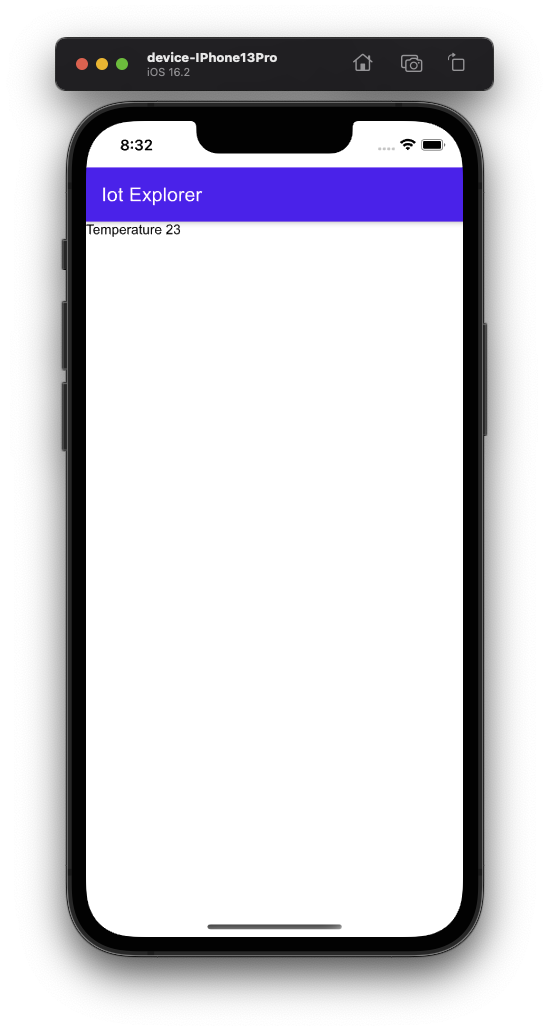
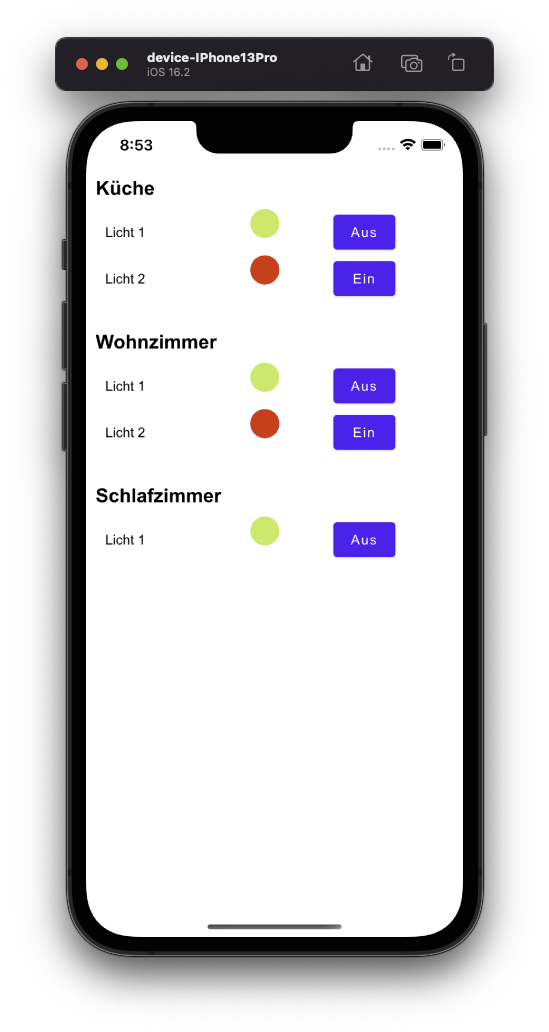
Add more UI widgets, no code sharing yet

diff --git a/compose-ios/src/uikitMain/kotlin/main.uikit.kt b/compose-ios/src/uikitMain/kotlin/main.uikit.kt
@@ -5,6 +5,11 @@ import androidx.compose.ui.Modifier
 import androidx.compose.ui.unit.dp
 import androidx.compose.ui.window.Application
 import kotlinx.cinterop.*
+import org.plc4x.kmp.ui.presentation.model.LightStatus
+import org.plc4x.kmp.ui.presentation.model.Temperature
+import org.plc4x.kmp.ui.widget.HomeView
+import org.plc4x.kmp.ui.presentation.model.Room
+import org.plc4x.kmp.ui.presentation.model.SwitchStatus
 import platform.UIKit.*
 import platform.Foundation.*
 
@@ -32,14 +37,43 @@ class SkikoAppDelegate : UIResponder, UIApplicationDelegateProtocol {
         _window = window
     }
 
-    override fun application(application: UIApplication, didFinishLaunchingWithOptions: Map<Any?, *>?): Boolean {
+    override fun application(
+        application: UIApplication,
+        didFinishLaunchingWithOptions: Map<Any?, *>?
+    ): Boolean {
 
         window = UIWindow(frame = UIScreen.mainScreen.bounds)
         window!!.rootViewController = Application("IoT Explorer") {
             Column {
                 // To skip upper part of screen.
                 Box(modifier = Modifier.height(48.dp))
-                ListScreen()
+                HomeView(
+                    listOf(
+                        Room(
+                            name = "Küche",
+                            lights = listOf(
+                                LightStatus("Licht 1", SwitchStatus.ON),
+                                LightStatus("Licht 2", SwitchStatus.OFF)
+                            ),
+                            temperature = Temperature("_", "21.0")
+                        ),
+                        Room(
+                            name = "Wohnzimmer",
+                            lights = listOf(
+                                LightStatus("Licht 1", SwitchStatus.ON),
+                                LightStatus("Licht 2", SwitchStatus.OFF)
+                            ),
+                            temperature = Temperature("_", "21.0")
+                        ),
+                        Room(
+                            name = "Schlafzimmer",
+                            lights = listOf(
+                                LightStatus("Licht 1", SwitchStatus.ON),
+                            ),
+                            temperature = Temperature("_", "21.0")
+                        )
+                    )
+                )
             }
         }
         window!!.makeKeyAndVisible()

diff --git a/compose-ios/src/commonMain/kotlin/org/plc4x/kmp/ui/widget/Room.kt b/compose-ios/src/commonMain/kotlin/org/plc4x/kmp/ui/widget/Room.kt
@@ -1,0 +1,69 @@
+package org.plc4x.kmp.ui.widget
+
+import androidx.compose.foundation.layout.*
+import androidx.compose.material.Button
+import androidx.compose.material.Text
+import androidx.compose.runtime.Composable
+import androidx.compose.ui.Alignment
+import androidx.compose.ui.Modifier
+import androidx.compose.ui.text.TextStyle
+import androidx.compose.ui.text.font.FontWeight
+import androidx.compose.ui.text.style.TextAlign
+import androidx.compose.ui.unit.dp
+import androidx.compose.ui.unit.sp
+import org.plc4x.kmp.ui.presentation.model.LightStatus
+import org.plc4x.kmp.ui.presentation.model.Room
+import org.plc4x.kmp.ui.presentation.model.SwitchStatus
+
+@Composable
+fun Room(room: Room) {
+    Column(Modifier.padding(10.dp)) {
+        RoomName(room.name)
+        RoomLights(room.lights)
+        //RoomTemperature(room.temperature)
+    }
+
+}
+
+@Composable
+fun RoomLights(lights: List<LightStatus>) {
+    Row {
+        LightsColumn(lights.filterIndexed { index, _ -> index < 2 })
+        Spacer(modifier = Modifier.width(10.dp))
+        LightsColumn(lights.filterIndexed { index, _ -> index >= 2 })
+    }
+}
+
+@Composable
+fun LightsColumn(lights: List<LightStatus>) {
+    Column(Modifier.padding(10.dp)) {
+        lights.forEach { light ->
+            Row(Modifier.width(300.dp), verticalAlignment = Alignment.CenterVertically) {
+                Box(modifier = Modifier.weight(1f), contentAlignment = Alignment.CenterStart) {
+                    Text(light.name)
+                }
+                Box(modifier = Modifier.weight(1f), contentAlignment = Alignment.CenterEnd) {
+                    Row {
+                        Box(modifier = Modifier.weight(1f), contentAlignment = Alignment.CenterStart) {
+                            LedLight(light.switchStatus == SwitchStatus.ON)
+                        }
+                        Button({ /*TODO*/ }) {
+                            Text(if (light.switchStatus == SwitchStatus.ON) "Aus" else "Ein")
+                        }
+                    }
+                }
+            }
+        }
+    }
+}
+
+@Composable
+fun RoomName(name: String) {
+    Text(
+        name, style = TextStyle(
+            fontSize = 20.sp,
+            fontWeight = FontWeight.Bold,
+            textAlign = TextAlign.Start
+        )
+    )
+}

diff --git a/compose-ios/src/commonMain/kotlin/org/plc4x/kmp/ui/apptheme.kt b/compose-ios/src/commonMain/kotlin/org/plc4x/kmp/ui/apptheme.kt
@@ -1,0 +1,23 @@
+package org.plc4x.kmp.ui
+
+import androidx.compose.material.lightColors
+import androidx.compose.ui.graphics.Color
+
+object AppTheme {
+    val colors: Colors = Colors()
+
+    class Colors(
+        val backgroundDark: Color = Color(0xFF2B2B2B),
+        val backgroundMedium: Color = Color(0xFF3C3F41),
+        val backgroundLight: Color = Color.White,
+        val switchOn: Color = Color(0xFFC4EF74),
+        val switchOff: Color = Color(0xFFEF3118),
+
+
+        val material: androidx.compose.material.Colors = lightColors(
+            background = backgroundLight,
+            surface = backgroundMedium,
+            primary = Color.White
+        ),
+    )
+}

diff --git a/compose-ios/src/commonMain/kotlin/org/plc4x/kmp/ui/widget/LigthStatus.kt b/compose-ios/src/commonMain/kotlin/org/plc4x/kmp/ui/widget/LigthStatus.kt
@@ -1,0 +1,18 @@
+package org.plc4x.kmp.ui.widget
+
+import androidx.compose.foundation.layout.Row
+import androidx.compose.material.Text
+import androidx.compose.runtime.Composable
+import org.plc4x.kmp.ui.presentation.model.LightStatus
+import org.plc4x.kmp.ui.presentation.model.SwitchStatus
+
+@Composable
+fun LightStatus(lightStatus: LightStatus) {
+    Row {
+        Text(lightStatus.name)
+        when (lightStatus.switchStatus) {
+            SwitchStatus.ON -> LedLight(true)
+            SwitchStatus.OFF -> LedLight(false)
+        }
+    }
+}

diff --git a/compose-ios/src/commonMain/kotlin/org/plc4x/kmp/ui/widget/LedLight.kt b/compose-ios/src/commonMain/kotlin/org/plc4x/kmp/ui/widget/LedLight.kt
@@ -1,0 +1,18 @@
+package org.plc4x.kmp.ui.widget
+
+import androidx.compose.foundation.Canvas
+import androidx.compose.foundation.layout.size
+import androidx.compose.runtime.Composable
+import androidx.compose.ui.Modifier
+import androidx.compose.ui.unit.dp
+import org.plc4x.kmp.ui.AppTheme
+
+
+@Composable
+fun LedLight(isOn: Boolean) {
+    Canvas(modifier = Modifier.size(30.dp)) {
+        drawCircle(
+            color = if (isOn) AppTheme.colors.switchOn else AppTheme.colors.switchOff
+        )
+    }
+}

diff --git a/compose-ios/src/commonMain/kotlin/org/plc4x/kmp/ui/widget/HouseView.kt b/compose-ios/src/commonMain/kotlin/org/plc4x/kmp/ui/widget/HouseView.kt
@@ -1,0 +1,15 @@
+package org.plc4x.kmp.ui.widget
+
+import androidx.compose.foundation.lazy.LazyColumn
+import androidx.compose.runtime.Composable
+import org.plc4x.kmp.ui.presentation.model.Room
+
+@Composable
+fun HomeView(rooms: List<Room>) {
+
+    LazyColumn {
+        items(rooms.size) { roomIndex ->
+            Room(rooms[roomIndex])
+        }
+    }
+}

diff --git a/compose-ios/src/commonMain/kotlin/org/plc4x/kmp/ui/presentation/model/Room.kt b/compose-ios/src/commonMain/kotlin/org/plc4x/kmp/ui/presentation/model/Room.kt
@@ -1,0 +1,9 @@
+package org.plc4x.kmp.ui.presentation.model
+
+data class Room(
+    val name: String,
+    val lights: List<LightStatus>,
+    val temperature: Temperature
+)
+
+data class House(val rooms: List<Room>)

diff --git a/compose-ios/src/commonMain/kotlin/org/plc4x/kmp/ui/presentation/model/LightStatus.kt b/compose-ios/src/commonMain/kotlin/org/plc4x/kmp/ui/presentation/model/LightStatus.kt
@@ -1,0 +1,10 @@
+package org.plc4x.kmp.ui.presentation.model
+
+
+enum class SwitchStatus {
+    ON,
+    OFF
+}
+
+
+data class LightStatus(val name: String, val switchStatus: SwitchStatus)

diff --git a/compose-ios/src/commonMain/kotlin/org/plc4x/kmp/ui/presentation/model/Temperature.kt b/compose-ios/src/commonMain/kotlin/org/plc4x/kmp/ui/presentation/model/Temperature.kt
@@ -1,0 +1,3 @@
+package org.plc4x.kmp.ui.presentation.model
+
+data class Temperature(val name: String, val temperature: String)
